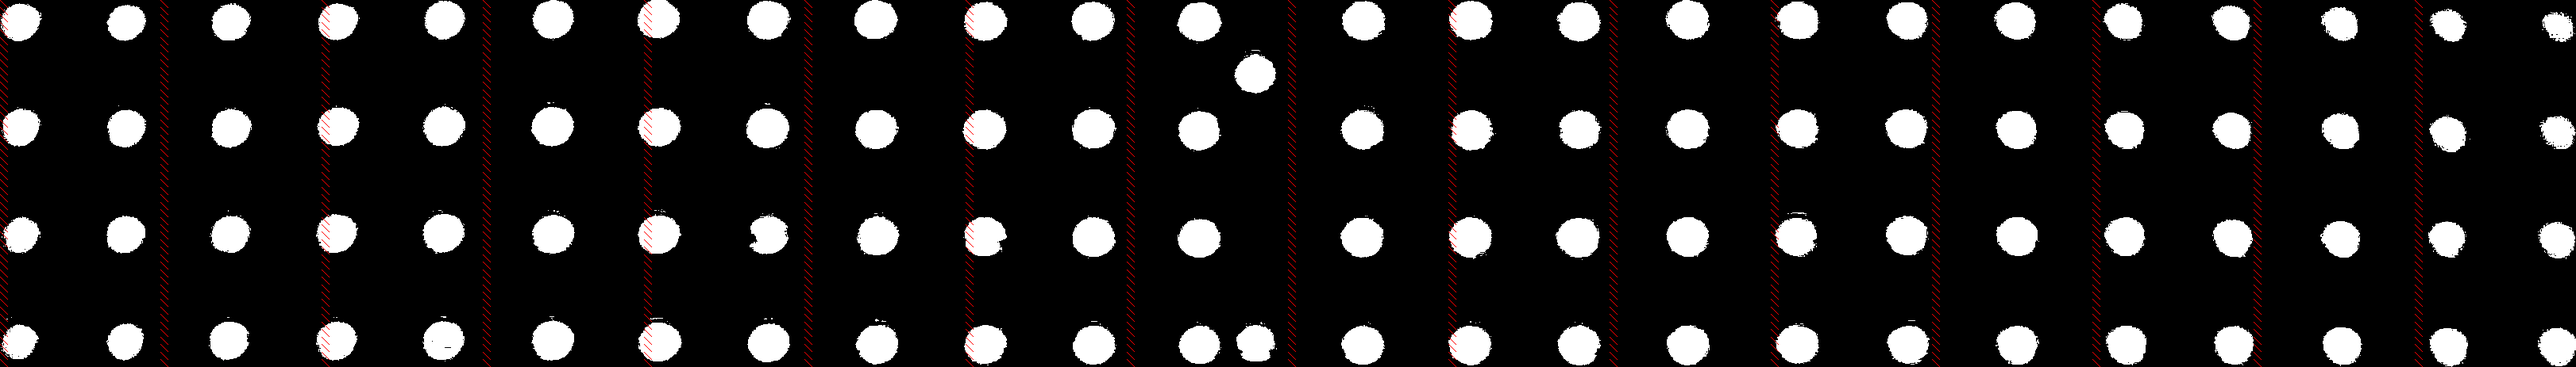
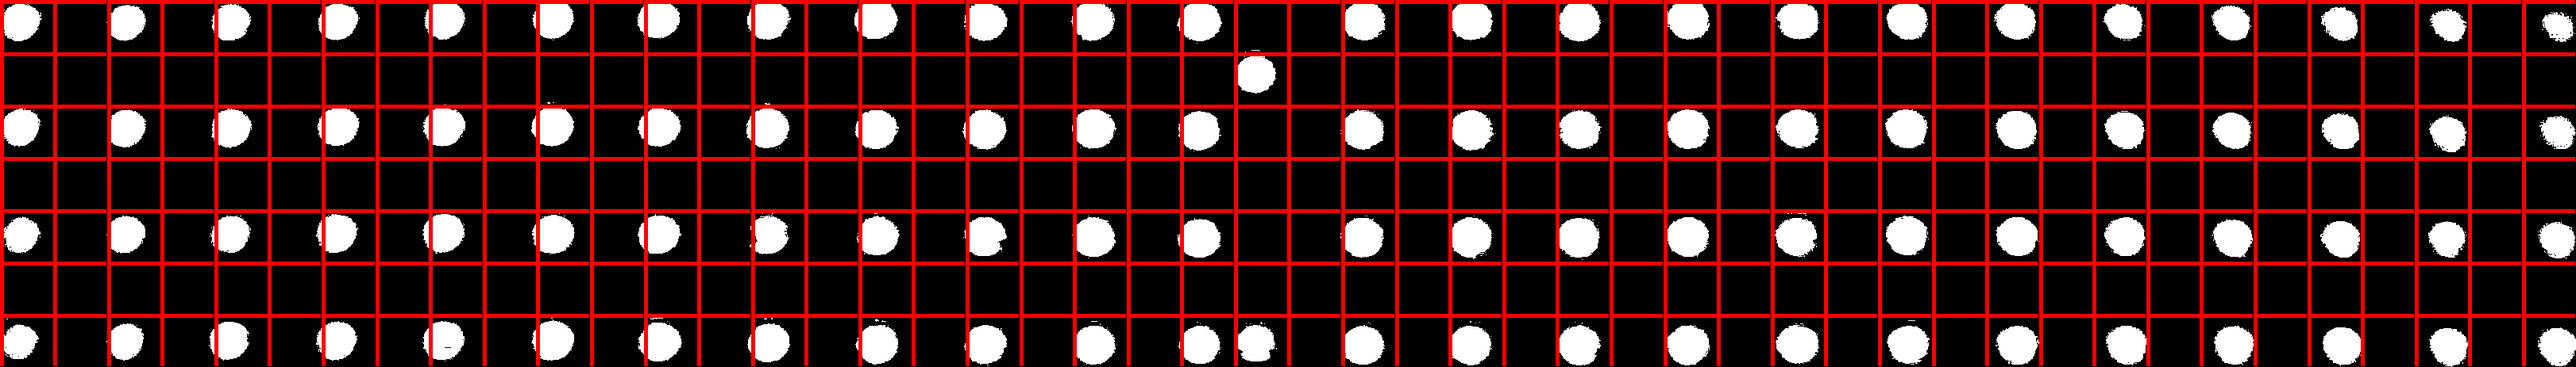
[Fixed regenImg improved efficiency]

diff --git a/main.py b/main.py
@@ -1,4 +1,4 @@
-from math import cos, sin, radians, floor
+from math import cos, sin, radians, pi
 from image import Img
 
 def findArea(startX:int, startY:int, endX:int, endY:int) -> int:
@@ -38,19 +38,22 @@ def blackWhiteMask(img:Img, averageRGB:tuple, r:int = 20) -> Img:
         x += 1
     return img
 
-def convToBin(img:Img, amountX:int, amountY:int) -> tuple:
+def convToBin(img:Img, amountX:int, amountY:int, threshold:int) -> tuple:
     ret = ""
     x = 0
     y = 0
     while y <= int(img.getSize()[1] - (1)):
         x = 0
         while x <= int(img.getSize()[0] - (1)):
-            if (img.sumRGB(img.findAverageRGB(int(x), int(y), (img.getSize()[0] // amountX), (img.getSize()[1] // amountY)))) > 50:
+            if (img.sumRGB(img.findAverageRGB(int(x), int(y), (img.getSize()[0] // amountX), (img.getSize()[1] // amountY)))) > threshold:
                 ret += "1"
             else:
                 ret += "0"
-            for j in range(10):
-                img.setRGB(x + j, y + j, 255, 0, 0)
+            for j in range(5):
+                for i in range(int(img.getSize()[1] / amountY)):
+                    img.setRGB(x + j, y + i, 255, 0, 0)
+                for k in range(int(img.getSize()[0] / amountX)):
+                    img.setRGB(x + k, y + j, 255, 0, 0)
             x += (img.getSize()[0] / amountX)
         y += (img.getSize()[1] / amountY)
         ret += "\n"
@@ -58,33 +61,44 @@ def convToBin(img:Img, amountX:int, amountY:int) -> tuple:
 
 def regenImg(img:Img, inp:str, RGB:tuple) -> None: # NOTE: input str must be XXX\nXXX
     inp = inp.split("\n")
-    radiusX = int(img.getSize()[0] / (len(inp[0]) * 2))
-    radiusY = int(img.getSize()[1] / (len(inp) * 2))
+    radiusX = (img.getSize()[0] / (len(inp[0]) * 2))
+    radiusY = (img.getSize()[1] / ((len(inp) - 1) * 2)) # len(inp) - 1 because extra '\n' on the end
+    loop = radiusY
+    if radiusX < radiusY:
+        loop = radiusX
     for y in range(len(inp)):
         for x in range(len(inp[y])):
             if inp[y][x] == "1":
                 i = 0
-                while i < 360:
-                    for j in range(radiusX): # to fill the circles (maybe need to change a radiusY also)
-                        img.setRGB((x * radiusX * 2) + (radiusX) + (j * cos(radians(i))), (y * radiusY * 2) + (radiusY) + (radiusY * sin(radians(i))), RGB[0], RGB[1], RGB[2])
-                    i += 0.1
+                while i < (2 * pi):
+                    for j in range(int(loop)):
+                        img.setRGB((x * radiusX * 2) + (j * cos(i)) + radiusX, (y *  radiusY * 2) + (radiusY * sin(i)) + radiusY, RGB[0], RGB[1], RGB[2])
+                    i += 0.01
     return img
 
 # NOTE: the cards dont line up
 
 def main():
-    img = Img("in/test.jpeg")
+    filepath = input("Enter the file path of the input image: ")
+    img = Img(filepath)
     img.solarise(255)
+    img.save("out/sol.jpeg")
     img.normalise()
+    img.save("out/norm.jpeg")
     img.invert()
+    img.save("out/invert.jpeg")
     img.enhance(0.5, 0.7, 1, 2)
+    img.save("out/enhance.jpeg")
     img.grayScale()
+    img.save("out/grayScale.jpeg")
     img = blackWhiteMask(img, img.findAverageRGB(), 5)
     img.save("out/out.png")
     img = Img("out/out.png")
     img.convRGB()
 
-    binary = convToBin(img, 16, 49)
+    amountX = int(input("How many accross?:  "))
+    amountY = int(input("How many vertical?: "))
+    binary = convToBin(img, amountX, amountY, 50)
     print(binary[0])
     binary[1].save("out/lines.png")
     regenImg(img, binary[0], (255, 0, 255)).save("out/finalOut.png")

diff --git a/image.py b/image.py
@@ -47,7 +47,7 @@ class Img:
             for j in range(startY, startY + height):
                 self.setRGB(i, j, RGB[0], RGB[1], RGB[2])
 
-    def getPath(self):
+    def getPath(self) -> str:
         return self.__imgPath
 
     def save(self, newImgName:str) -> None:
@@ -88,6 +88,7 @@ class Img:
         self.__img = enhancer.enhance(sharpness)
         self.__pix = self.__img.load()
 
+    # TODO: fix
     def findLinearLightingGradient(self) -> int:
         self.equalise()
         return self.getDarkness(0, 0) - self.getDarkness(self.getSize()[0] - 1, self.getSize()[1] - 1) / (self.getSize()[0])
